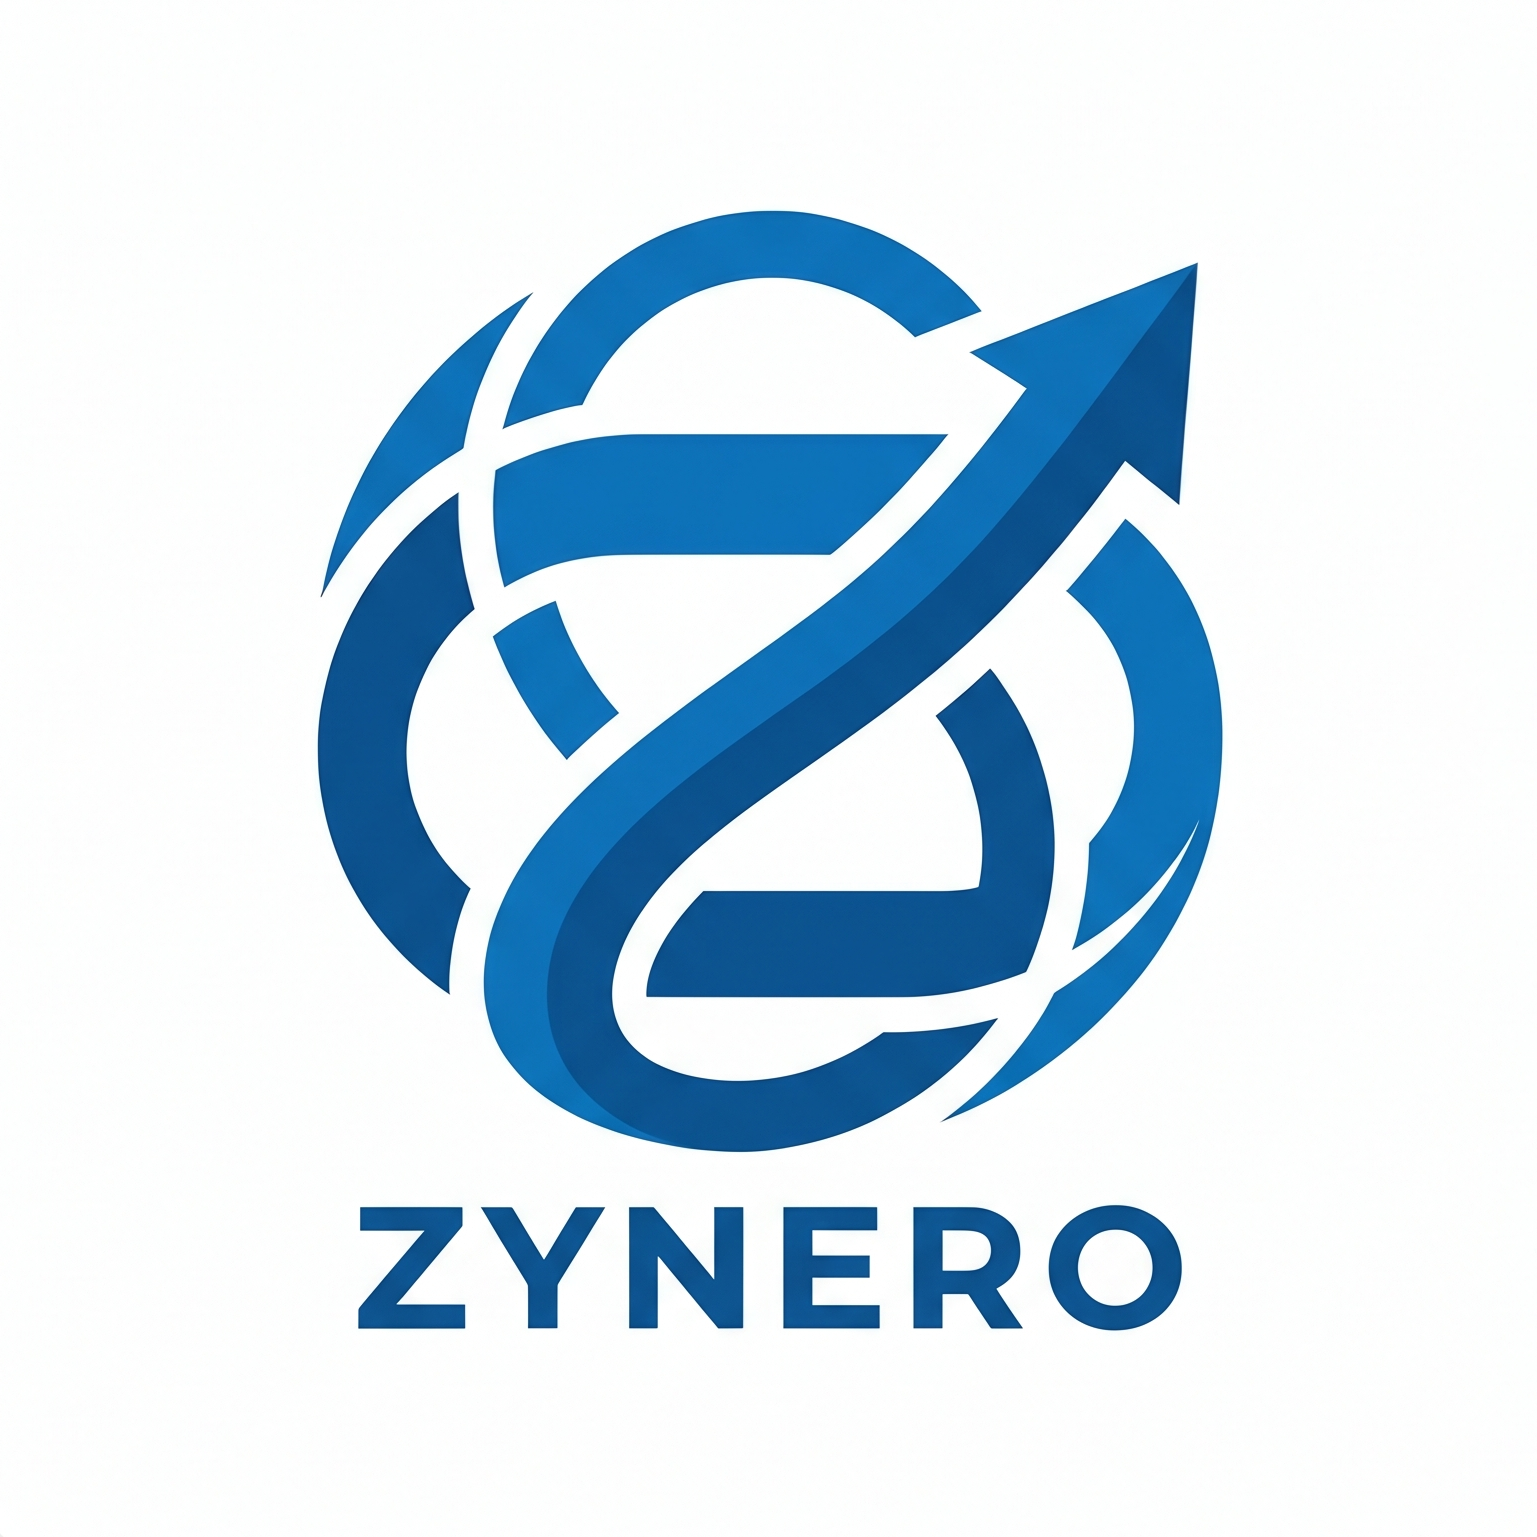
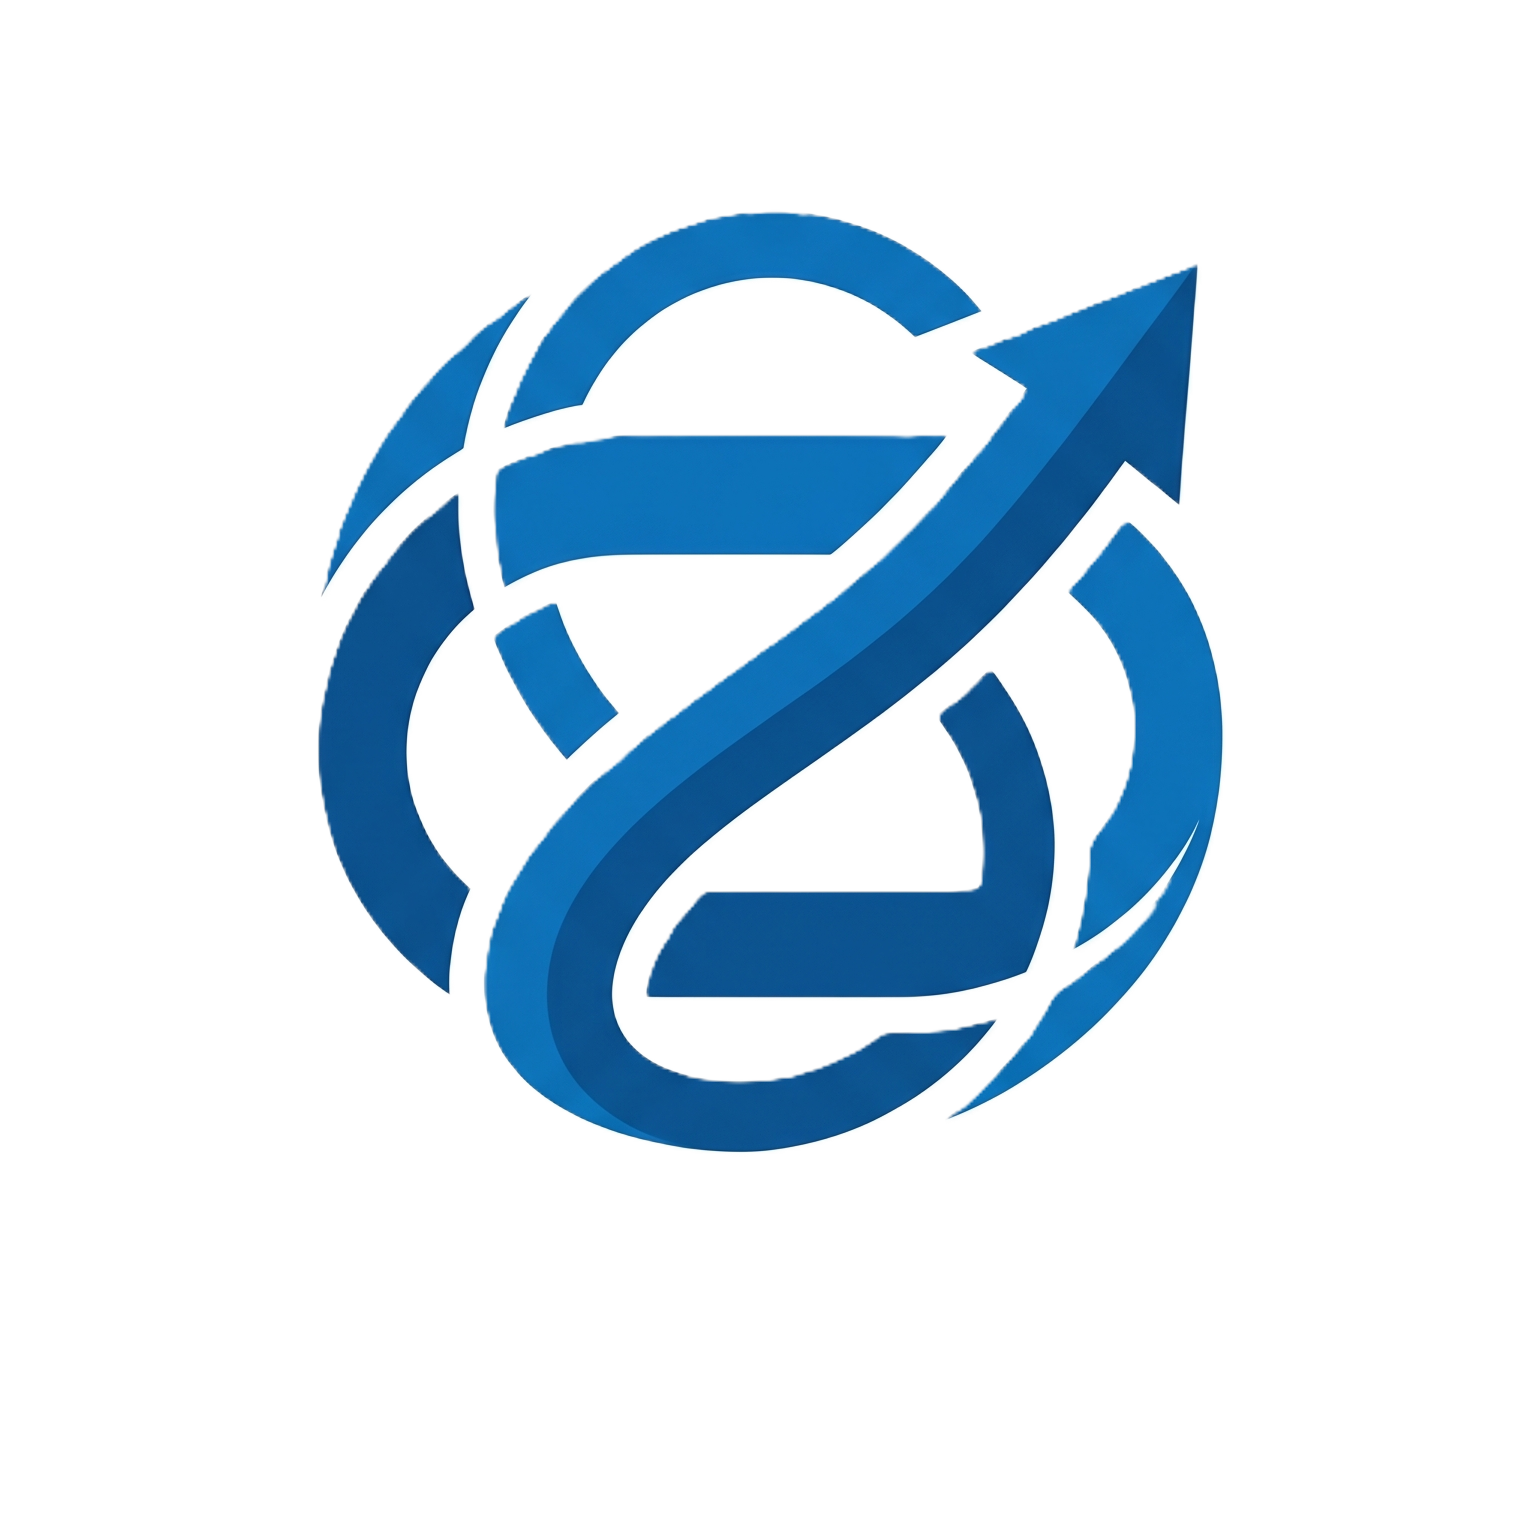
feat: add motion library and mockup images; update memberController to throw error for non-existent users

diff --git a/src/controllers/memberController.ts b/src/controllers/memberController.ts
@@ -18,15 +18,7 @@ export async function addMember(
   });
 
   if (!user) {
-    // Create a default placeholder user for this email so relations work
-    const placeholderId = "user_" + Math.random().toString(36).substring(2, 9);
-    user = await prisma.user.create({
-      data: {
-        id: placeholderId,
-        name: email.split("@")[0],
-        email,
-      },
-    });
+    throw new Error("No user found with this email address");
   }
 
   // CASE 1: Add member to project